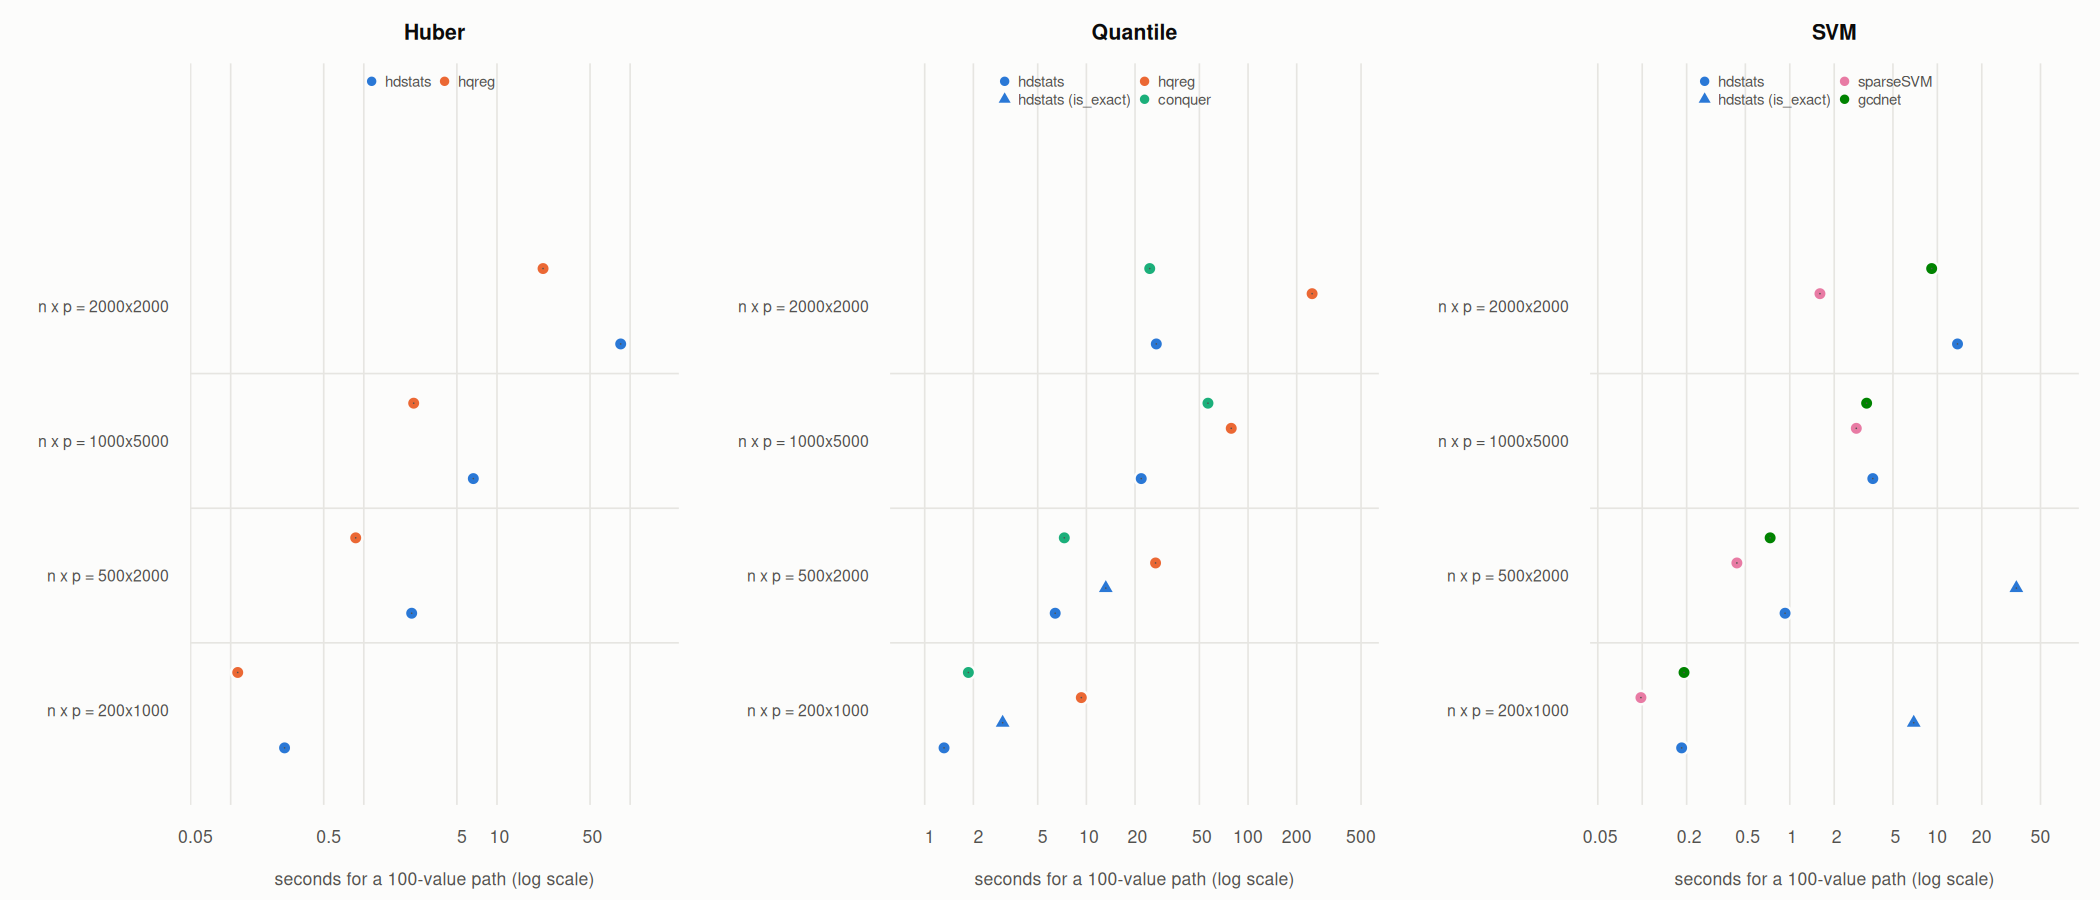
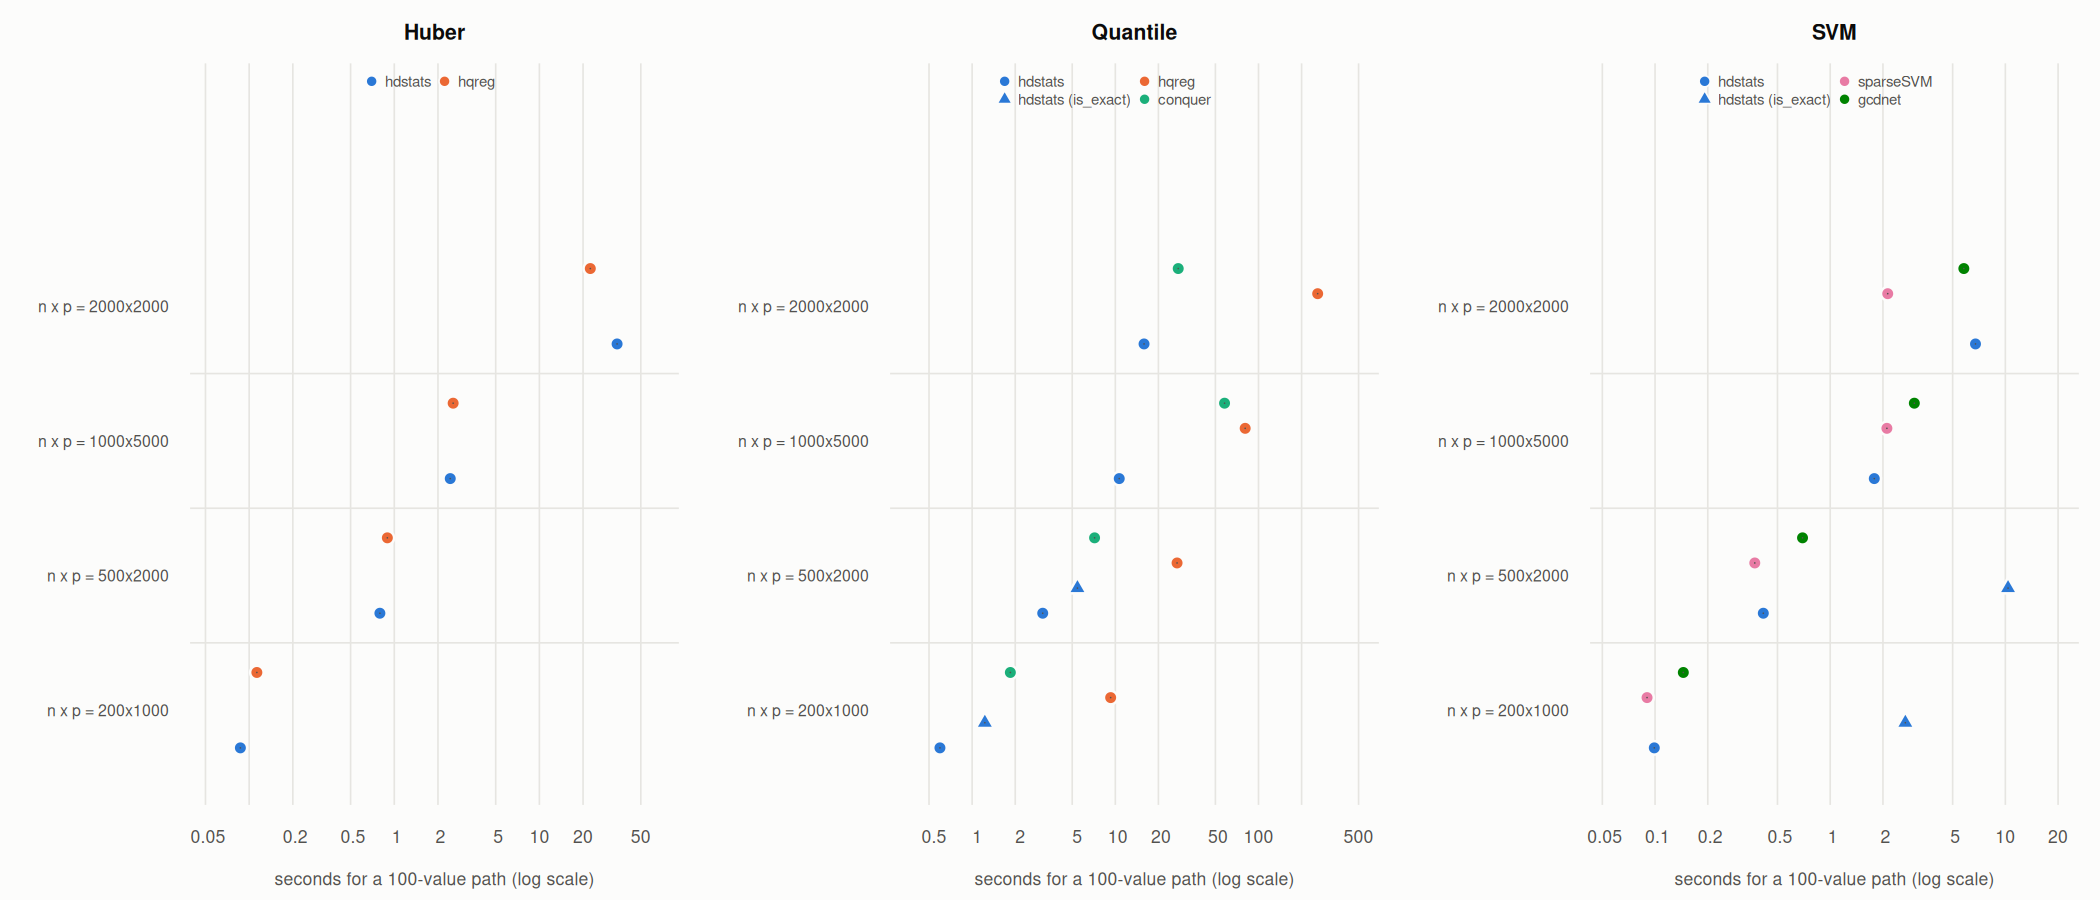
Benchmarks: rerun the speed comparison with the vectorized kernels
New timings, figure and tables. hdqr() is now 8-16 times faster than
hqreg's quantile solver and 2-5 times faster than conquer; hdhuber()
matches or beats hqreg for p > n; hdsvm() matches sparseSVM for p > n.
The write-up records the one regime where the majorization steps lag
(n = p at the nearly unpenalized end of the path) and the evaluation of
a Newton-type coordinate step that was not adopted.

diff --git a/benchmarks/README.md b/benchmarks/README.md
@@ -44,57 +44,68 @@ starts and is run on 10 `lambda` values only, for the smallest size.
 
 | method (seconds; ratio to hdstats default) | 200 x 1000 | 500 x 2000 | 1000 x 5000 | 2000 x 2000 |
 |---|---|---|---|---|
-| hdhuber() | 0.25 s (1.0x) | 2.29 s (1.0x) | 6.64 s (1.0x) | 84.94 s (1.0x) |
-| hqreg(method = 'huber') | 0.11 s (0.4x) | 0.87 s (0.4x) | 2.37 s (0.4x) | 22.18 s (0.3x) |
+| hdhuber() | 0.09 s (1.0x) | 0.80 s (1.0x) | 2.43 s (1.0x) | 34.31 s (1.0x) |
+| hqreg(method = 'huber') | 0.11 s (1.3x) | 0.90 s (1.1x) | 2.54 s (1.0x) | 22.44 s (0.7x) |
 
 **Quantile**: median elapsed seconds of 3 runs; the ratio is time / time of hdstats' default solver at that size.
 
 | method (seconds; ratio to hdstats default) | 200 x 1000 | 500 x 2000 | 1000 x 5000 | 2000 x 2000 |
 |---|---|---|---|---|
-| hdqr() | 1.32 s (1.0x) | 6.41 s (1.0x) | 21.84 s (1.0x) | 27.07 s (1.0x) |
-| hdqr(is_exact = TRUE) | 3.03 s (2.3x) | 13.19 s (2.1x) |  |  |
-| hqreg(method = 'quantile') | 9.30 s (7.1x) | 26.79 s (4.2x) | 78.69 s (3.6x) | 249.01 s (9.2x) |
-| conquer.reg() on hdqr's lambda sequence | 1.86 s (1.4x) | 7.30 s (1.1x) | 56.50 s (2.6x) | 24.65 s (0.9x) |
-| rq(method = 'lasso'), 10 lambda values | 37.95 s (28.8x) |  |  |  |
+| hdqr() | 0.60 s (1.0x) | 3.11 s (1.0x) | 10.65 s (1.0x) | 15.87 s (1.0x) |
+| hdqr(is_exact = TRUE) | 1.23 s (2.1x) | 5.44 s (1.7x) |  |  |
+| hqreg(method = 'quantile') | 9.28 s (15.6x) | 26.99 s (8.7x) | 80.72 s (7.6x) | 259.00 s (16.3x) |
+| conquer.reg() on hdqr's lambda sequence | 1.85 s (3.1x) | 7.16 s (2.3x) | 57.94 s (5.4x) | 27.50 s (1.7x) |
+| rq(method = 'lasso'), 10 lambda values | 38.00 s (63.8x) |  |  |  |
 
 **SVM**: median elapsed seconds of 3 runs; the ratio is time / time of hdstats' default solver at that size.
 
 | method (seconds; ratio to hdstats default) | 200 x 1000 | 500 x 2000 | 1000 x 5000 | 2000 x 2000 |
 |---|---|---|---|---|
-| hdsvm() | 0.18 s (1.0x) | 0.93 s (1.0x) | 3.65 s (1.0x) | 13.70 s (1.0x) |
-| hdsvm(is_exact = TRUE) | 6.92 s (37.4x) | 34.30 s (36.9x) |  |  |
-| sparseSVM() | 0.10 s (0.5x) | 0.44 s (0.5x) | 2.82 s (0.8x) | 1.60 s (0.1x) |
-| gcdnet(method = 'hhsvm'), Huberized squared hinge | 0.19 s (1.0x) | 0.74 s (0.8x) | 3.32 s (0.9x) | 9.15 s (0.7x) |
-| LiblineaR(type = 5), one cost value | 0.06 s (0.3x) | 0.21 s (0.2x) | 0.92 s (0.3x) | 1.10 s (0.1x) |
+| hdsvm() | 0.10 s (1.0x) | 0.41 s (1.0x) | 1.78 s (1.0x) | 6.75 s (1.0x) |
+| hdsvm(is_exact = TRUE) | 2.69 s (27.1x) | 10.36 s (25.0x) |  |  |
+| sparseSVM() | 0.09 s (0.9x) | 0.37 s (0.9x) | 2.11 s (1.2x) | 2.13 s (0.3x) |
+| gcdnet(method = 'hhsvm'), Huberized squared hinge | 0.15 s (1.5x) | 0.69 s (1.7x) | 3.02 s (1.7x) | 5.79 s (0.9x) |
+| LiblineaR(type = 5), one cost value | 0.06 s (0.6x) | 0.17 s (0.4x) | 0.79 s (0.4x) | 0.90 s (0.1x) |
 
 **Rank**: median elapsed seconds of 3 runs; the ratio is time / time of hdstats' default solver at that size.
 
 | method (seconds; ratio to hdstats default) | 100 x 10 | 200 x 20 | 400 x 20 |
 |---|---|---|---|
-| hdrr(), 100-value path | 0.45 s (1.0x) | 2.04 s (1.0x) | 9.02 s (1.0x) |
-| rfit(), one unpenalized fit | 0.02 s (0.0x) | 0.03 s (0.0x) | 0.03 s (0.0x) |
-| rq() on all pairwise differences, one fit | 0.04 s (0.1x) | 0.60 s (0.3x) | 9.97 s (1.1x) |
+| hdrr(), 100-value path | 0.26 s (1.0x) | 1.17 s (1.0x) | 5.01 s (1.0x) |
+| rfit(), one unpenalized fit | 0.02 s (0.1x) | 0.03 s (0.0x) | 0.03 s (0.0x) |
+| rq() on all pairwise differences, one fit | 0.04 s (0.2x) | 0.63 s (0.5x) | 10.06 s (2.0x) |
 
 
 What the timings show:
 
-- **Huber regression.** hqreg's semismooth Newton coordinate descent is
-  2.5 to 3.8 times faster than `hdhuber()` at every size.
-- **Quantile regression.** `hdqr()` is 3.6 to 9.2 times faster than hqreg's
-  quantile solver and comparable to conquer (0.9 to 2.6 times conquer's
-  time), while reaching a better objective than either (next section).
-  The exact LP solver in quantreg needs 38 s for 10 `lambda` values at the
-  smallest size, against 1.3 s for the 100-value `hdqr()` path.
-  `is_exact = TRUE` roughly doubles the run time.
-- **SVM.** sparseSVM is 1.3 to 8.6 times faster than `hdsvm()` (its
-  advantage grows with n), gcdnet's Huberized squared hinge is on par, and
-  a single LiblineaR fit costs 10 to 30% of a whole `hdsvm()` path.
-  `hdsvm(is_exact = TRUE)` is about 37 times slower than the default.
+- **Huber regression.** `hdhuber()` is 1.05 to 1.3 times faster than
+  hqreg's semismooth Newton coordinate descent when p > n and 1.5 times
+  slower at n = p = 2000, where the path ends in the nearly unpenalized,
+  ill-conditioned regime (lambda.min = 1e-4 lambda.max) in which the
+  majorization steps of the finite smoothing algorithm are most damped.
+- **Quantile regression.** `hdqr()` is 7.6 to 16 times faster than hqreg's
+  quantile solver and 1.7 to 5.4 times faster than conquer, while reaching
+  a better objective than either (next section). The exact LP solver in
+  quantreg needs 38 s for 10 `lambda` values at the smallest size, against
+  0.6 s for the 100-value `hdqr()` path. `is_exact = TRUE` roughly doubles
+  the run time.
+- **SVM.** sparseSVM and `hdsvm()` are on par when p > n (0.9 to 1.2 times
+  `hdsvm()`'s time); sparseSVM is 3 times faster at n = p = 2000, where its
+  advantage grows with n. gcdnet's Huberized squared hinge takes 1.5 to
+  1.7 times as long for p > n, and a single LiblineaR fit costs 13 to 60%
+  of a whole `hdsvm()` path. `hdsvm(is_exact = TRUE)` is about 25 times
+  slower than the default.
 - **Rank regression.** No mainstream package fits penalized rank
-  regression. A 100-value `hdrr()` path costs 0.5 to 9 s for n = 100 to
+  regression. A 100-value `hdrr()` path costs 0.3 to 5 s for n = 100 to
   400, against 0.02 to 0.03 s for one unpenalized `Rfit::rfit()` fit; the
-  exact LP on all pairwise differences (quantreg) takes as long as the whole
-  `hdrr()` path at n = 400.
+  exact LP on all pairwise differences (quantreg) takes twice as long as
+  the whole `hdrr()` path at n = 400.
+
+These timings are for the current C++ kernels, which keep the derivative
+of the smoothed loss for every observation and use unrolled, branch-free
+inner loops; they are 1.4 to 2.8 times faster than the first C++ version
+and 2 to 2.8 (Huber, quantile) or 1.4 to 1.6 (SVM) times faster than the
+Fortran originals on the same machine.
 
 **A Newton-type coordinate step was evaluated and not adopted.** The
 majorization step of the finite smoothing algorithm uses the curvature
@@ -296,12 +307,13 @@ What the statistical comparison shows:
 
 ## Implications for the JSS manuscript
 
-1. **Lead with quantile regression and robustness, not raw speed.**
-   `hdqr()` is 4 to 9 times faster than hqreg's quantile solver and as fast
-   as conquer while reaching a closer-to-exact objective than either; the
-   Huber and SVM solvers are competitive but not the fastest available
-   (hqreg is 2.5 to 4 times faster for Huber, sparseSVM 1.3 to 8 times
-   faster for the SVM).
+1. **Lead with quantile regression and robustness; the speed story is
+   now solid.** `hdqr()` is 8 to 16 times faster than hqreg's quantile
+   solver and 2 to 5 times faster than conquer while reaching a
+   closer-to-exact objective than either; `hdhuber()` matches or beats
+   hqreg for p > n, and `hdsvm()` matches sparseSVM for p > n. The one
+   regime where the majorization steps lag (n = p, nearly unpenalized end
+   of the path) is worth stating rather than hiding.
 2. **Reconsider the default `lam2 = 0.01` of `hdqr()` and `hdrr()`** (a
    default inherited from the original packages): it costs 15 to 25% in
    estimation error in these sparse settings and is inconsistent with

diff --git a/benchmarks/results/tables.md b/benchmarks/results/tables.md
@@ -2,36 +2,36 @@
 
 | method (seconds; ratio to hdstats default) | 200 x 1000 | 500 x 2000 | 1000 x 5000 | 2000 x 2000 |
 |---|---|---|---|---|
-| hdhuber() | 0.25 s (1.0x) | 2.29 s (1.0x) | 6.64 s (1.0x) | 84.94 s (1.0x) |
-| hqreg(method = 'huber') | 0.11 s (0.4x) | 0.87 s (0.4x) | 2.37 s (0.4x) | 22.18 s (0.3x) |
+| hdhuber() | 0.09 s (1.0x) | 0.80 s (1.0x) | 2.43 s (1.0x) | 34.31 s (1.0x) |
+| hqreg(method = 'huber') | 0.11 s (1.3x) | 0.90 s (1.1x) | 2.54 s (1.0x) | 22.44 s (0.7x) |
 
 **Quantile**: median elapsed seconds of 3 runs; the ratio is time / time of hdstats' default solver at that size.
 
 | method (seconds; ratio to hdstats default) | 200 x 1000 | 500 x 2000 | 1000 x 5000 | 2000 x 2000 |
 |---|---|---|---|---|
-| hdqr() | 1.32 s (1.0x) | 6.41 s (1.0x) | 21.84 s (1.0x) | 27.07 s (1.0x) |
-| hdqr(is_exact = TRUE) | 3.03 s (2.3x) | 13.19 s (2.1x) |  |  |
-| hqreg(method = 'quantile') | 9.30 s (7.1x) | 26.79 s (4.2x) | 78.69 s (3.6x) | 249.01 s (9.2x) |
-| conquer.reg() on hdqr's lambda sequence | 1.86 s (1.4x) | 7.30 s (1.1x) | 56.50 s (2.6x) | 24.65 s (0.9x) |
-| rq(method = 'lasso'), 10 lambda values | 37.95 s (28.8x) |  |  |  |
+| hdqr() | 0.60 s (1.0x) | 3.11 s (1.0x) | 10.65 s (1.0x) | 15.87 s (1.0x) |
+| hdqr(is_exact = TRUE) | 1.23 s (2.1x) | 5.44 s (1.7x) |  |  |
+| hqreg(method = 'quantile') | 9.28 s (15.6x) | 26.99 s (8.7x) | 80.72 s (7.6x) | 259.00 s (16.3x) |
+| conquer.reg() on hdqr's lambda sequence | 1.85 s (3.1x) | 7.16 s (2.3x) | 57.94 s (5.4x) | 27.50 s (1.7x) |
+| rq(method = 'lasso'), 10 lambda values | 38.00 s (63.8x) |  |  |  |
 
 **SVM**: median elapsed seconds of 3 runs; the ratio is time / time of hdstats' default solver at that size.
 
 | method (seconds; ratio to hdstats default) | 200 x 1000 | 500 x 2000 | 1000 x 5000 | 2000 x 2000 |
 |---|---|---|---|---|
-| hdsvm() | 0.18 s (1.0x) | 0.93 s (1.0x) | 3.65 s (1.0x) | 13.70 s (1.0x) |
-| hdsvm(is_exact = TRUE) | 6.92 s (37.4x) | 34.30 s (36.9x) |  |  |
-| sparseSVM() | 0.10 s (0.5x) | 0.44 s (0.5x) | 2.82 s (0.8x) | 1.60 s (0.1x) |
-| gcdnet(method = 'hhsvm'), Huberized squared hinge | 0.19 s (1.0x) | 0.74 s (0.8x) | 3.32 s (0.9x) | 9.15 s (0.7x) |
-| LiblineaR(type = 5), one cost value | 0.06 s (0.3x) | 0.21 s (0.2x) | 0.92 s (0.3x) | 1.10 s (0.1x) |
+| hdsvm() | 0.10 s (1.0x) | 0.41 s (1.0x) | 1.78 s (1.0x) | 6.75 s (1.0x) |
+| hdsvm(is_exact = TRUE) | 2.69 s (27.1x) | 10.36 s (25.0x) |  |  |
+| sparseSVM() | 0.09 s (0.9x) | 0.37 s (0.9x) | 2.11 s (1.2x) | 2.13 s (0.3x) |
+| gcdnet(method = 'hhsvm'), Huberized squared hinge | 0.15 s (1.5x) | 0.69 s (1.7x) | 3.02 s (1.7x) | 5.79 s (0.9x) |
+| LiblineaR(type = 5), one cost value | 0.06 s (0.6x) | 0.17 s (0.4x) | 0.79 s (0.4x) | 0.90 s (0.1x) |
 
 **Rank**: median elapsed seconds of 3 runs; the ratio is time / time of hdstats' default solver at that size.
 
 | method (seconds; ratio to hdstats default) | 100 x 10 | 200 x 20 | 400 x 20 |
 |---|---|---|---|
-| hdrr(), 100-value path | 0.45 s (1.0x) | 2.04 s (1.0x) | 9.02 s (1.0x) |
-| rfit(), one unpenalized fit | 0.02 s (0.0x) | 0.03 s (0.0x) | 0.03 s (0.0x) |
-| rq() on all pairwise differences, one fit | 0.04 s (0.1x) | 0.60 s (0.3x) | 9.97 s (1.1x) |
+| hdrr(), 100-value path | 0.26 s (1.0x) | 1.17 s (1.0x) | 5.01 s (1.0x) |
+| rfit(), one unpenalized fit | 0.02 s (0.1x) | 0.03 s (0.0x) | 0.03 s (0.0x) |
+| rq() on all pairwise differences, one fit | 0.04 s (0.2x) | 0.63 s (0.5x) | 10.06 s (2.0x) |
 
 **Huber, n = 400, p = 200**: relative objective gap (objective - best) / best at five lambda values; df = number of nonzero coefficients; seconds = time for the five fits.
 
